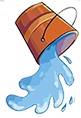
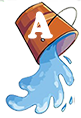
Atualizado estrutuação do jogo

Changed region(s): [[0.3457, 0.0763, 0.6667, 0.3305]]

diff --git a/jogo.py b/jogo.py
@@ -5,7 +5,6 @@ import time
 pygame.init()
 
 pygame.display.set_caption("Corre Cascão")
-
 icon = pygame.image.load("assets/ico.png")
 pygame.display.set_icon(icon)
 
@@ -13,12 +12,43 @@ pygame.display.set_icon(icon)
 relogio = pygame.time.Clock()
 largura = 900
 altura = 700
+
 display = pygame.display.set_mode( (largura, altura))
 backgroud = pygame.image.load("assets/cascaoFundo.jpg")#imagem de fundo
+pedeNome = pygame.image.load("assets/pedeNome.jpg")# tela de fundo para pedir o nome
 cascaoCorre = pygame.image.load("assets/corre.png")#colocando o cascão para correr
 molhouEnd = pygame.image.load("assets/molhou.jpg")#mensagem de fim
 
-balde = pygame.image.load("assets/ba.png")# balde para molha o cascao
+ba = pygame.image.load("assets/ba.png")# balde para molha o cascao
+bb = pygame.image.load("assets/bb.png")
+bc = pygame.image.load("assets/bc.png")
+bd = pygame.image.load("assets/bd.png")
+be = pygame.image.load("assets/be.png")
+bf = pygame.image.load("assets/bf.png")
+bg = pygame.image.load("assets/bg.png")
+bh = pygame.image.load("assets/bh.png")
+bi = pygame.image.load("assets/bi.png")
+bj = pygame.image.load("assets/bj.png")
+bk = pygame.image.load("assets/bk.png")
+bl = pygame.image.load("assets/bl.png")
+bm = pygame.image.load("assets/bm.png")
+bn = pygame.image.load("assets/bn.png")
+bo = pygame.image.load("assets/bo.png")
+bp = pygame.image.load("assets/bp.png")
+bq = pygame.image.load("assets/bq.png")
+br = pygame.image.load("assets/br.png")
+bs = pygame.image.load("assets/bs.png")
+bt = pygame.image.load("assets/bt.png")
+bu = pygame.image.load("assets/bu.png")
+bv = pygame.image.load("assets/bv.png")
+by = pygame.image.load("assets/by.png")
+bw = pygame.image.load("assets/bw.png")
+bx = pygame.image.load("assets/bx.png")
+
+
+lista = [ba,bb,bc,bd,be,bf,bg,bh,bi,bj,bk,bl,bm,bn,bo,bp,bq,br,bs,bt,bu,bv,bw,by,bx]
+escolhido = random.choice(lista)
+
 baldeLargura = 81
 baldeAltura = 120
 baldePosicaoX = 250
@@ -28,7 +58,7 @@ baldeMovimento = 0
 cascaoLargura = 82
 cascaoAltura = 108
 cascaoPosicaoX = 320
-cascaoPosicaoY = 550
+cascaoPosicaoY = 580
 cascaoMovimento = 0
 
 velocidadeCascao = 5
@@ -36,10 +66,10 @@ velocidadeBalde = 5
 
 pygame.mixer.music.load("assets/audio.mp3") #musica de fundo
 pygame.mixer.music.play(-1)
-pygame.mixer.music.set_volume(0.05)
+pygame.mixer.music.set_volume(0.2)
 
 banhoSound = pygame.mixer.Sound("assets/banho.wav")#som do bnaho
-banhoSound.set_volume(0.08)
+banhoSound.set_volume(0.2)
 
 
 def contaPlacar(contador):
@@ -51,16 +81,18 @@ def molhou():
     display.blit(molhouEnd, (140,160))
     pygame.display.update()
     pygame.mixer.Sound.play(banhoSound)
-    pygame.mixer.music.stop()
+    #pygame.mixer.music.stop()
     time.sleep(5)
 
 
+#nome = input("aqui")
 
 contador = 0
 while True:
 
     #trabalhar com background
     display.fill((255,255,255))
+    display.blit(pedeNome, ((largura - 1280),(altura - 720)))
     display.blit(backgroud, (largura - 1254,(altura - 708)))
 
     font = pygame.font.SysFont(None, 100)#buscar como alterar fonte
@@ -77,6 +109,7 @@ while True:
                 cascaoMovimento = velocidadeCascao
         if evento.type == pygame.KEYUP:
             cascaoMovimento = 0
+
     
     cascaoPosicaoX = cascaoPosicaoX + cascaoMovimento
     if cascaoPosicaoX < 27:
@@ -94,12 +127,14 @@ while True:
         velocidadeBalde = velocidadeBalde + 1
         baldePosicaoX = random.randrange(40,550)
         contador += 1
+        escolhido = random.choice(lista)
 
 
-    display.blit(balde, (baldePosicaoX, baldePosicaoY)) 
+    display.blit(escolhido, (baldePosicaoX, baldePosicaoY))
+
 
     #Verificando banho
-    if cascaoPosicaoY < baldePosicaoY + (baldeAltura - 30 ):
+    if (cascaoPosicaoY + 30) < baldePosicaoY + baldeAltura:
         if cascaoPosicaoX < baldePosicaoX and cascaoPosicaoX + cascaoLargura > baldePosicaoX or baldePosicaoX + (baldeLargura - 30) > cascaoPosicaoX and baldePosicaoX + baldeLargura < cascaoPosicaoX + baldeLargura:
             molhou()
             velocidadeBalde = 5
